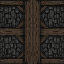
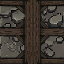
Frogmen attack animations

diff --git a/index.html b/index.html
@@ -255,6 +255,9 @@ const SECTIONS = [
         { frames: walk(S + 'frogmen/frogmen-phase1/frogmen_side1.png', S + 'frogmen/frogmen-phase1/frogmen_side2.png') },
         { frames: walk(S + 'frogmen/frogmen-phase1/frogmen_side1.png', S + 'frogmen/frogmen-phase1/frogmen_side2.png'), flip: true },
         { frames: walk(S + 'frogmen/frogmen-phase1/frogmen_back1.png', S + 'frogmen/frogmen-phase1/frogmen_back2.png') },
+        { frames: walk(S + 'frogmen/frogmen-phase1/frogmen_front-attack1.png', S + 'frogmen/frogmen-phase1/frogmen_front-attack2.png', 150) },
+        { frames: walk(S + 'frogmen/frogmen-phase1/frogmen_side_attack1.png', S + 'frogmen/frogmen-phase1/frogmen_side_attack2.png', 150) },
+        { frames: walk(S + 'frogmen/frogmen-phase1/frogmen_side_attack1.png', S + 'frogmen/frogmen-phase1/frogmen_side_attack2.png', 150), flip: true },
       ],
     },
     {

diff --git a/CLAUDE.md b/CLAUDE.md
@@ -168,7 +168,13 @@ motion values are per-weapon in `viewmodel.gd.set_sword()`.
 - Holes live in a second GridMap (`HoleMap`) and are **open lethal
   shafts** — no collision. A collisionless `void` tile (black slab,
   same look) sits under every wooden floor cell from build time;
-  collapse swaps the plank away and the shaft is simply open.
+  collapse swaps the plank away and the shaft is simply open. Open
+  shafts get a torn lip: `_rebuild_hole_rims` rebuilds upright
+  `floor_hole_edge` sprites wholesale from the HoleMap on every hole
+  event — one on each shaft edge that still borders solid floor, facing
+  in — so connected/growing holes rim only their true outer edge and
+  never leave a seam floating over open space. Rims live under a
+  `HoleRims` container so the collapse-sink pass ignores them.
   Falling below y = -1.5 kills the player ("the Dark Below", no
   portrait) and despawns creatures — kill credited if the player's
   shove sent them over (`last_attacker`), but the body and its
